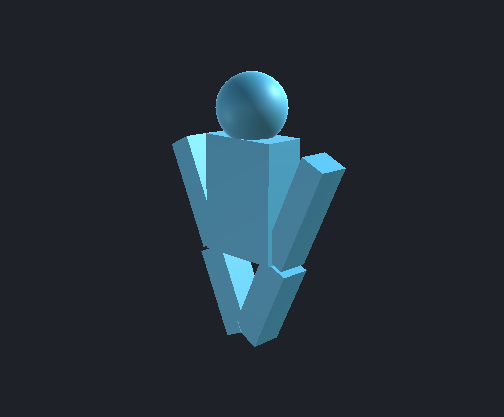
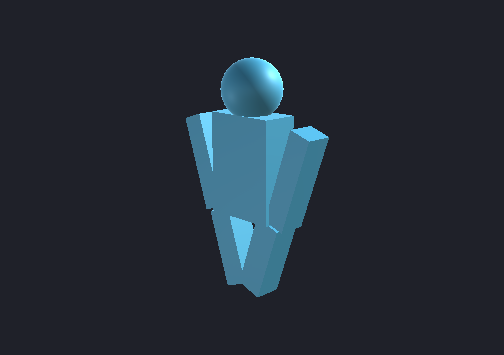
Fix FBX selection, preview framing and timeline mouse interactions

diff --git a/Assets/Editor/AnimationSegmentEditor/AnimationSegmentEditorWindow.cs b/Assets/Editor/AnimationSegmentEditor/AnimationSegmentEditorWindow.cs
@@ -18,6 +18,8 @@ public class AnimationSegmentEditorWindow : EditorWindow
     [SerializeField] private float playhead;
     [SerializeField] private bool exportSegments = true, exportCombined = true;
     private Vector2 trackScroll, cardsScroll;
+    [SerializeField] private Object sourceAsset;
+    [SerializeField] private AnimationClip[] sourceClips = new AnimationClip[0];
     private string search = "", status;
     private bool playing, scrubbing;
     private double lastUpdate;
@@ -84,6 +86,7 @@ public class AnimationSegmentEditorWindow : EditorWindow
     public void LoadClip(AnimationClip clip)
     {
         if (clip == null) return;
+        if (!sourceClips.Contains(clip)) { sourceAsset = clip; sourceClips = new[] { clip }; }
         var next = CreateInstance<AnimationEditSession>();
         try { next.Initialize(clip); }
         catch { Object.DestroyImmediate(next); throw; }
@@ -92,13 +95,37 @@ public class AnimationSegmentEditorWindow : EditorWindow
         selected = 0; playhead = 0; playing = false; trackScroll = Vector2.zero;
         var model = AssetDatabase.LoadAssetAtPath<GameObject>(AssetDatabase.GetAssetPath(clip));
         if (model != null) SetPreview(model);
+        else AutoLocatePreview();
         RebuildTracks(); Sample(); Repaint();
+    }
+    public void LoadSource(Object asset)
+    {
+        if (asset == null) return;
+        var clips = AnimationBatchScalerUtility.CollectClips(new[] { asset }).ToArray();
+        if (clips.Length == 0) { status = "资源中没有可编辑的动画。"; return; }
+        sourceAsset = asset; sourceClips = clips; LoadClip(clips[0]);
+    }
+    private void AutoLocatePreview()
+    {
+        if (session == null || session.source == null) return;
+        var model = AssetDatabase.LoadAssetAtPath<GameObject>(AssetDatabase.GetAssetPath(session.source));
+        if (model == null && Selection.activeGameObject != null) model = Selection.activeGameObject;
+        if (model == null)
+            foreach (var animator in Object.FindObjectsByType<Animator>(FindObjectsSortMode.None))
+                if (AnimationUtility.GetAnimationClips(animator.gameObject).Contains(session.source)) { model = animator.gameObject; break; }
+        if (model == null)
+            foreach (var animation in Object.FindObjectsByType<Animation>(FindObjectsSortMode.None))
+                if (AnimationUtility.GetAnimationClips(animation.gameObject).Contains(session.source)) { model = animation.gameObject; break; }
+        if (model != null) SetPreview(model);
+        else if (previewTarget != null) { Sample(); preview.Frame(); }
+        else status = "未找到对应模型。请选择场景模型后点击自动定位模型，或将模型 / Prefab 拖入右侧插槽。";
     }
     private void SetPreview(GameObject target)
     {
         previewTarget = target;
         if (preview == null) preview = new AnimationSegmentPreview();
-        preview.SetTarget(target); Sample();
+        preview.SetTarget(target); Sample(); preview.Frame();
+        if (target != null && !preview.HasRenderers) status = "模型没有可渲染的网格。若 FBX 仅包含骨骼动画，请在右侧指定带网格且骨架匹配的模型。";
     }
     private void RebuildTracks()
     {
@@ -143,6 +170,11 @@ public class AnimationSegmentEditorWindow : EditorWindow
                 EditorGUILayout.LabelField("动画预览", EditorStyles.boldLabel);
                 var target = (GameObject)EditorGUILayout.ObjectField(previewTarget, typeof(GameObject), true);
                 if (target != previewTarget) SetPreview(target);
+                using (new EditorGUILayout.HorizontalScope())
+                {
+                    if (GUILayout.Button("自动定位模型")) AutoLocatePreview();
+                    if (GUILayout.Button("模型居中 / F")) { Sample(); preview.Frame(); Repaint(); }
+                }
                 var rect = GUILayoutUtility.GetRect(100, 100, GUILayout.ExpandHeight(true), GUILayout.ExpandWidth(true));
                 if (preview != null) preview.Draw(rect);
                 using (new EditorGUILayout.HorizontalScope())
@@ -162,13 +194,19 @@ public class AnimationSegmentEditorWindow : EditorWindow
         using (new EditorGUILayout.HorizontalScope(EditorStyles.toolbar))
         {
             GUILayout.Label("ANIMATION CUT", EditorStyles.boldLabel, GUILayout.Width(125));
-            var source = (AnimationClip)EditorGUILayout.ObjectField(session.source, typeof(AnimationClip), false, GUILayout.MinWidth(150));
-            if (source != null && source != session.source) { try { LoadClip(source); } catch (Exception ex) { status = ex.Message; } }
+            var source = EditorGUILayout.ObjectField(sourceAsset != null ? sourceAsset : session.source, typeof(Object), false, GUILayout.MinWidth(150));
+            if (source != null && source != (sourceAsset != null ? sourceAsset : session.source))
+                try { LoadSource(source); } catch (Exception ex) { status = ex.Message; }
+            if (sourceClips.Length > 1)
+            {
+                int current = Array.IndexOf(sourceClips, session.source);
+                int next = EditorGUILayout.Popup(current, sourceClips.Select(c => c.name).ToArray(), GUILayout.Width(180));
+                if (next >= 0 && next != current) LoadClip(sourceClips[next]);
+            }
             GUILayout.Label(session.segments.Count + " 段   |   " + session.Duration.ToString("0.###") + " 秒", GUILayout.Width(170));
             if (GUILayout.Button("载入所选动画", EditorStyles.toolbarButton, GUILayout.Width(105)))
             {
-                var clips = AnimationBatchScalerUtility.CollectClips(Selection.objects);
-                if (clips.Count > 0) LoadClip(clips[0]); else status = "请先在 Project 中选择 AnimationClip 或 FBX。";
+                if (Selection.activeObject != null) LoadSource(Selection.activeObject); else status = "请先在 Project 中选择 AnimationClip 或 FBX。";
             }
         }
         using (new EditorGUILayout.HorizontalScope())
@@ -177,7 +215,7 @@ public class AnimationSegmentEditorWindow : EditorWindow
             if (saved != null && saved != session)
             {
                 if (!EditorUtility.IsPersistent(session)) Object.DestroyImmediate(session);
-                session = saved; selected = 0; playhead = 0; playing = false; RebuildTracks(); Sample();
+                session = saved; sourceAsset = saved.source; sourceClips = new AnimationClip[0]; selected = 0; playhead = 0; playing = false; AutoLocatePreview(); RebuildTracks(); Sample();
             }
             if (GUILayout.Button("保存编辑工程…", GUILayout.Width(120))) SaveSession();
             GUILayout.Label("源动画保持不变 · 切换源动画会新建编辑工程", EditorStyles.miniLabel);
@@ -248,7 +286,7 @@ public class AnimationSegmentEditorWindow : EditorWindow
         if (GUILayout.Button("恢复本段原始时长")) Edit("Reset segment duration", () => session.Resize(segment, segment.sourceEnd - segment.sourceStart));
         using (new EditorGUI.DisabledScope(session.segments.Count < 2))
             if (GUILayout.Button("移除此片段")) Edit("Remove segment", () => { session.segments.Remove(segment); selected = Mathf.Min(selected, session.segments.Count - 1); });
-        EditorGUILayout.HelpBox("C：点击时间线切割\nW：拖动片段，可移到空位或重排\nS：拖动片段右边缘调整时长\n滚轮：垂直滚动；Shift+滚轮：横向滚动\n空格：播放/暂停 · Ctrl/Cmd+Z：撤销\n空隙保持上一片段末帧，片段间直接切换。", MessageType.None);
+        EditorGUILayout.HelpBox("C：点击时间线切割\nW：拖动片段，可移到空位或重排\nS：拖动片段调整时长（左端固定）\n滚轮：垂直滚动；Shift+滚轮：横向滚动\n空格：播放/暂停 · Ctrl/Cmd+Z：撤销\n空隙保持上一片段末帧，片段间直接切换。", MessageType.None);
     }
     private void DrawExport()
     {
@@ -293,6 +331,7 @@ public class AnimationSegmentEditorWindow : EditorWindow
         if (e.keyCode == KeyCode.C) tool = EditTool.Cut;
         else if (e.keyCode == KeyCode.W) tool = EditTool.Move;
         else if (e.keyCode == KeyCode.S) tool = EditTool.Scale;
+        else if (e.keyCode == KeyCode.F) { Sample(); preview.Frame(); }
         else if (e.keyCode == KeyCode.Space) playing = !playing;
         else return;
         e.Use(); Repaint();
@@ -319,7 +358,8 @@ public class AnimationSegmentEditorWindow : EditorWindow
         var band = new Rect(rect.x + LabelWidth, rect.y + RulerHeight, rect.width - LabelWidth, BandHeight);
         var ruler = new Rect(rect.x + LabelWidth, rect.y, rect.width - LabelWidth, RulerHeight);
         var body = new Rect(rect.x + LabelWidth, band.yMax, rect.width - LabelWidth, rect.height - RulerHeight - BandHeight);
-        TimelineInput(rect, ruler, band, body);
+        // Native scrollbars must receive their own mouse events.
+        TimelineInput(rect, ruler, band, new Rect(body.x, body.y, Mathf.Max(0, body.width - 17), Mathf.Max(0, body.height - 17)));
         GUI.Label(new Rect(rect.x + 8, rect.y + 5, LabelWidth - 10, 22), "属性 / 关键帧", EditorStyles.boldLabel);
         GUI.Label(new Rect(rect.x + 8, band.y + 12, LabelWidth - 10, 22), "片段轨道", EditorStyles.miniLabel);
         GUI.BeginGroup(ruler);
@@ -406,9 +446,9 @@ public class AnimationSegmentEditorWindow : EditorWindow
         if (session.source == null) return;
         if (tool == EditTool.Cut) EditorGUIUtility.AddCursorRect(new Rect(ruler.x, ruler.y, ruler.width, all.height), MouseCursor.ArrowPlus);
         else EditorGUIUtility.AddCursorRect(band, tool == EditTool.Scale ? MouseCursor.ResizeHorizontal : MouseCursor.MoveArrow);
-        if (e.type == EventType.MouseDown && e.button == 0 && (ruler.Contains(e.mousePosition) || band.Contains(e.mousePosition) || body.Contains(e.mousePosition)))
+        if (e.type == EventType.MouseDown && GUIUtility.hotControl == 0 && e.button == 0 && (ruler.Contains(e.mousePosition) || band.Contains(e.mousePosition) || body.Contains(e.mousePosition)))
         {
-            GUIUtility.keyboardControl = 0; playing = false;
+            GUIUtility.keyboardControl = 0; playing = false; scrubbing = false; dragging = null;
             float time = TimeAt(all, e.mousePosition.x);
             if (tool == EditTool.Cut && !ruler.Contains(e.mousePosition)) Cut(time);
             else if (band.Contains(e.mousePosition))
@@ -417,8 +457,7 @@ public class AnimationSegmentEditorWindow : EditorWindow
                 if (segment != null)
                 {
                     selected = session.segments.IndexOf(segment);
-                    bool resizeHandle = Mathf.Abs(e.mousePosition.x - (all.x + LabelWidth + segment.End * pixelsPerSecond - trackScroll.x)) <= 12;
-                    if (tool == EditTool.Move || (tool == EditTool.Scale && resizeHandle))
+                    if (tool == EditTool.Move || tool == EditTool.Scale)
                     {
                         Undo.RegisterCompleteObjectUndo(session, tool == EditTool.Move ? "Move animation segment" : "Retime animation segment");
                         dragging = segment; dragMouseTime = time; dragStart = segment.start; dragDuration = segment.duration;
@@ -441,7 +480,7 @@ public class AnimationSegmentEditorWindow : EditorWindow
                 else session.Resize(dragging, dragDuration + delta);
                 selected = session.segments.IndexOf(dragging); EditorUtility.SetDirty(session); Sample(); e.Use(); Repaint();
             }
-            if (e.type == EventType.MouseUp) { dragging = null; GUIUtility.hotControl = 0; e.Use(); }
+            if (e.type == EventType.MouseUp) { dragging = null; scrubbing = false; GUIUtility.hotControl = 0; dragControl = 0; e.Use(); }
         }
         if (scrubbing && GUIUtility.hotControl == dragControl)
         {

diff --git a/Assets/Editor/Tests/AnimationSegmentEditorVisualTests.cs b/Assets/Editor/Tests/AnimationSegmentEditorVisualTests.cs
@@ -131,11 +131,35 @@ public static class AnimationSegmentEditorVisualTests
                 typeof(AnimationSegmentEditorWindow).GetMethod("Sample", Private).Invoke(window, null);
                 edit.Validate();
             }
+            if (ticks == 60)
+            {
+                var edit = Field<AnimationEditSession>("session");
+                var moved = edit.segments.Find(s => s.name.StartsWith("起步"));
+                Drag(5, 5.5f);
+                Check(Mathf.Abs(moved.duration - 3) < .04f, "Second S drag scales from segment body");
+                Check(GUIUtility.hotControl == 0, "Scale releases hot control");
+                typeof(AnimationSegmentEditorWindow).GetField("pixelsPerSecond", Private).SetValue(window, 300f);
+            }
+            if (ticks == 70)
+            {
+                var rect = Field<Rect>("timelineBounds");
+                var offset = Field<Vector2>("guiScreenOrigin") - window.position.position;
+                var start = new Vector2(rect.x + 230, rect.yMax - 8) + offset;
+                var end = start + new Vector2(110, 0);
+                float before = Field<float>("playhead");
+                Mouse(EventType.MouseDown, start); Mouse(EventType.MouseDrag, end, end - start); Mouse(EventType.MouseUp, end);
+                Check(Field<Vector2>("trackScroll").x > 0, "Horizontal scrollbar thumb drags");
+                Check(Mathf.Abs(Field<float>("playhead") - before) < .001f, "Scrollbar does not scrub playhead");
+                var preview = Field<AnimationSegmentPreview>("preview");
+                typeof(AnimationSegmentPreview).GetField("zoom", Private).SetValue(preview, 8f);
+                Key(KeyCode.F);
+                Check(Mathf.Abs((float)typeof(AnimationSegmentPreview).GetField("zoom", Private).GetValue(preview) - 1) < .001f, "F resets zoom to fit model");
+            }
             if (ticks == 85)
             {
                 Check(failure == null, failure);
                 Capture();
-                File.WriteAllText(Path.Combine(Reports, "segment-editor-ui.txt"), "PASS graphical editor layout, C mouse cuts, W mouse reorder, S mouse resize, preview sampling; Unity " + Application.unityVersion);
+                File.WriteAllText(Path.Combine(Reports, "segment-editor-ui.txt"), "PASS graphical editor layout, C mouse cuts, W mouse reorder, repeated S body resize, horizontal scrollbar drag without scrubbing, F framing, preview sampling; Unity " + Application.unityVersion);
                 Finish(0);
             }
         }

diff --git a/Assets/Editor/Tests/AnimationSegmentEditorTests.cs b/Assets/Editor/Tests/AnimationSegmentEditorTests.cs
@@ -164,6 +164,19 @@ public static class AnimationSegmentEditorTests
                 var importer = (ModelImporter)AssetImporter.GetAtPath(fbx);
                 importer.animationType = ModelImporterAnimationType.Generic; importer.importAnimation = true;
                 importer.preserveHierarchy = true; importer.SaveAndReimport();
+                var take = importer.defaultClipAnimations[0];
+                importer.clipAnimations = new[] {
+                    new ModelImporterClipAnimation { name = "First", takeName = take.takeName, firstFrame = take.firstFrame, lastFrame = (take.firstFrame + take.lastFrame) / 2 },
+                    new ModelImporterClipAnimation { name = "Second", takeName = take.takeName, firstFrame = (take.firstFrame + take.lastFrame) / 2, lastFrame = take.lastFrame } };
+                importer.SaveAndReimport();
+                var window = ScriptableObject.CreateInstance<AnimationSegmentEditorWindow>(); temporary.Add(window);
+                window.LoadSource(AssetDatabase.LoadAssetAtPath<GameObject>(fbx));
+                var flags = System.Reflection.BindingFlags.Instance | System.Reflection.BindingFlags.NonPublic;
+                var options = (AnimationClip[])typeof(AnimationSegmentEditorWindow).GetField("sourceClips", flags).GetValue(window);
+                Check(options.Length == 2, "FBX slot exposes both imported takes");
+                window.LoadClip(options[1]);
+                Check(((AnimationEditSession)typeof(AnimationSegmentEditorWindow).GetField("session", flags).GetValue(window)).source == options[1], "Can select second FBX clip");
+                Check(((AnimationSegmentPreview)typeof(AnimationSegmentEditorWindow).GetField("preview", flags).GetValue(window)).HasTarget, "Embedded clip automatically locates FBX model");
                 var clip = AssetDatabase.LoadAllAssetsAtPath(fbx).OfType<AnimationClip>().First(c => !c.name.Contains("__preview"));
                 var edit = NewSession(clip); temporary.Add(edit); edit.Split(edit.segments[0], edit.Snap(clip.length / 2));
                 var paths = AnimationSegmentExporter.Export(edit, Root + "/Output", true, true);

diff --git a/Assets/Editor/AnimationSegmentEditor/AnimationSegmentPreview.cs b/Assets/Editor/AnimationSegmentEditor/AnimationSegmentPreview.cs
@@ -14,6 +14,7 @@ public sealed class AnimationSegmentPreview : IDisposable
     private Vector2 orbit = new Vector2(135, 15);
     private float zoom = 1;
     public bool HasTarget { get { return instance != null; } }
+    public bool HasRenderers { get { return instance != null && instance.GetComponentsInChildren<Renderer>(true).Length > 0; } }
 
     public void SetTarget(GameObject target)
     {
@@ -33,6 +34,12 @@ public sealed class AnimationSegmentPreview : IDisposable
         instance.SetActive(true);
         container.SetActive(true);
         foreach (var animator in instance.GetComponentsInChildren<Animator>(true)) animator.cullingMode = AnimatorCullingMode.AlwaysAnimate;
+        Frame();
+    }
+
+    public void Frame()
+    {
+        if (instance == null) return;
         bounds = new Bounds(instance.transform.position, Vector3.one);
         var renderers = instance.GetComponentsInChildren<Renderer>(true);
         if (renderers.Length > 0)
@@ -64,7 +71,9 @@ public sealed class AnimationSegmentPreview : IDisposable
             preview.camera.clearFlags = CameraClearFlags.Color;
             preview.camera.backgroundColor = new Color(.12f, .13f, .16f);
             float radius = Mathf.Max(.1f, bounds.extents.magnitude);
-            float distance = radius * 4.8f * zoom;
+            float aspect = Mathf.Max(.1f, rect.width / rect.height);
+            float halfFov = Mathf.Atan(Mathf.Tan(15 * Mathf.Deg2Rad) * Mathf.Min(1, aspect));
+            float distance = radius / Mathf.Sin(halfFov) * 1.15f * zoom;
             var rotation = Quaternion.Euler(orbit.y, orbit.x, 0);
             preview.camera.transform.SetPositionAndRotation(bounds.center - rotation * Vector3.forward * distance, rotation);
             preview.camera.nearClipPlane = Mathf.Max(.001f, distance / 1000);

diff --git a/Documentation/TechnicalDesign.md b/Documentation/TechnicalDesign.md
@@ -72,7 +72,7 @@ r = duration / (sourceEnd - sourceStart)
 x = timelineOriginX + time * pixelsPerSecond - horizontalScroll
 ```
 
-C/W/S 在窗口 `KeyDown` 时切换工具；编辑文本或按住 Ctrl/Cmd/Alt 时不处理这些快捷键。C 点击裁切所在片段；W 拖动色块；S 仅在右端约 12 像素的命中范围内开始拖拽。时间尺或非切割模式的关键帧区域可拖动播放头。
+C/W/S 在窗口 `KeyDown` 时切换工具；编辑文本或按住 Ctrl/Cmd/Alt 时不处理这些快捷键。C 点击裁切所在片段；W 拖动色块；S 在整个片段色块内开始拖拽，固定左端调整时长，光标显示与命中区域一致。时间尺或非切割模式的关键帧区域可拖动播放头。
 
 拖拽使用 `GUIUtility.hotControl` 持有鼠标，起始时记录一次完整对象 Undo；后续鼠标移动基于起始位置/时长计算，避免累计误差。普通命名、数值编辑、切割和删除同样记录 Session 的 Undo 并标记 Dirty。
 
@@ -152,8 +152,8 @@ newEventTime = oldEventTime * r
 | 入口 | 覆盖范围 | 已记录结果 |
 | --- | --- | --- |
 | `AnimationBatchScalerTests.Run` | 原批量缩放、权重/设置/事件、GUID、Undo、目录、FBX | 8 场景 / 68 断言 |
-| `AnimationSegmentEditorTests.Run` | 切割边界、加权裁切、阶梯/短轨道/包裹、移动缩放、对象事件、合成、导出、Session、FBX、隔离预览及快捷键 | 9 场景 / 479 断言（启用图形设备） |
-| `AnimationSegmentEditorVisualTests.Run` | 普通编辑器中的真实窗口事件：C 鼠标切割、W 拖拽重排、S 右端缩放、模型渲染纹理 | PASS |
+| `AnimationSegmentEditorTests.Run` | 切割边界、加权裁切、阶梯/短轨道/包裹、移动缩放、对象事件、合成、导出、Session、FBX、隔离预览及快捷键 | 9 场景 / 482 断言（启用图形设备） |
+| `AnimationSegmentEditorVisualTests.Run` | 普通编辑器中的真实窗口事件：C 鼠标切割、W 拖拽重排、连续 S 色块缩放、横向滚动条拖动且播放头不变、F 居中、模型渲染纹理 | PASS |
 
 前两个入口用 `unity run` 运行，命令见 [README](../README.md#验证与限制)。无图形模式可用于纯数据回归，但会跳过分段窗口的图形快捷键断言，因此断言数量不同。
 
@@ -182,3 +182,12 @@ unity open . --editor-path $editorPath --args $editorArgs
 当前实现为单源、单轨道的分段时间编辑器。尚未实现多动画混剪、多轨重叠、过渡混合或完整逐关键帧数值编辑。改变 Session 数据结构时应考虑已有 `.asset` 的序列化兼容性；更改上述算法时，优先扩展现有边界、事件归属、源资产不变性和图形拖拽用例。
 
 当前测试没有宣称覆盖所有第三方 FBX、Humanoid 根运动、运行时状态机或约束系统。仅改变文档时，可检查链接与差异；改变数据、导出或交互逻辑时，应执行对应回归并更新报告。
+
+
+## 2026-10-28 交互修复
+
+- 源资源插槽使用 `UnityEngine.Object` 接收 FBX 主资源与 AnimationClip。`LoadSource` 复用 `CollectClips` 排除预览剪辑，缓存可选动画并以 Popup 切换；直接选中子剪辑时只载入该剪辑。源资源和候选列表属于序列化窗口状态，编辑工程结构保持不变。
+- 模型定位顺序：同文件模型、当前选择的 GameObject、场景中引用源剪辑的 Animator / Animation。找不到关联时保留已指定模型或提示指定；不凭名称猜测任意模型。加载模型后先采样再计算包围盒。`Frame` 重置镜头缩放并根据当前 Renderer 包围盒与视口宽高比取景，按钮及 F 可重复触发。无网格的动画 FBX 会明确提示使用带网格的模型。
+- 缩放起始点不再限制为右端 12 像素；每次拖拽记录新的鼠标时间及起始时长，MouseUp 清空 dragging、scrubbing 和 hotControl，下次可直接继续缩放。缩放仍受邻段边界限制。
+- 自定义时间线 MouseDown 只命中时间尺、片段轨道及扣除原生横纵滚动条后的关键帧可视区；已有 hotControl 时不抢占输入。滚动条保留给 `GUI.BeginScrollView`，不会开启播放头拖拽。
+- 回归使用合成 FBX 导入为 First / Second 两个动画并验证候选及第二剪辑选择、自动模型定位。图形测试在首次缩放后不切换工具，从色块中间再拖一次；放大时间轴后拖动横向滚动条，断言滚动位置改变、播放头不变，并验证 F 重置缩放和最终模型渲染。

diff --git a/README.md b/README.md
@@ -17,9 +17,9 @@
 
 入口：**Tools > 动画分段编辑器**，或 **Window > Animation > Animation Segment Editor**。
 
-1. 指定 AnimationClip，或在 Project 中选中 `.anim` / FBX 动画子资源，点击“载入所选动画”。
+1. 将 `.anim` 或 FBX 文件直接拖入左上角插槽；FBX 包含多个动画时，通过旁边的下拉框选择。也可在 Project 中选中资源后点击“载入所选动画”。
 2. 左侧查看关键帧、对象引用轨道和动画事件；点击或拖动时间尺可调整播放头。可搜索轨道、缩放和滚动时间线。
-3. 右侧指定匹配的模型 / Prefab 预览。FBX 动画会尝试自动使用同文件模型；独立 `.anim` 需要自行指定模型。
+3. 右侧指定匹配的模型 / Prefab 预览。FBX 动画会自动使用同文件模型；独立 `.anim` 会尝试使用当前选择的模型或场景中引用该动画的对象。可点击“自动定位模型”，使用“模型居中 / F”重新取景。仅含骨骼的 FBX 需要另行指定带网格的匹配模型。
 4. 使用下列工具编辑片段，上方卡片可填写各片段的 **Name**，并显示片段数量、片段时长和总时长。
 5. 保存“编辑工程”以便下次继续；选择 Assets 内的输出文件夹，一键导出动画。
 
@@ -27,7 +27,7 @@
 | --- | --- | --- |
 | C | 点击片段或关键帧区域 | 按最近帧切割 |
 | W | 拖动片段色块 | 移动到空位或重排 |
-| S | 拖动片段右边缘 | 固定左端，改变时长和播放速度 |
+| S | 拖动片段色块（可连续操作） | 固定左端，改变时长和播放速度 |
 | 空格 | 播放 / 暂停 | 预览当前时间线 |
 | Ctrl/Cmd+Z | 撤销 | 撤销片段编辑或导出 |
 
@@ -61,8 +61,8 @@
 | 检查 | 结果 | 报告 |
 | --- | --- | --- |
 | 原批量缩放器回归 | 8 个场景，68 项断言通过 | [regression.txt](TestReports/regression.txt) |
-| 分段编辑器回归 | 9 个场景，479 项断言通过 | [segment-editor.txt](TestReports/segment-editor.txt) |
-| 独立图形窗口验收 | C 鼠标切割、W 拖动重排、S 右边缘变速、预览渲染通过 | [segment-editor-ui.txt](TestReports/segment-editor-ui.txt) |
+| 分段编辑器回归 | 9 个场景，482 项断言通过 | [segment-editor.txt](TestReports/segment-editor.txt) |
+| 独立图形窗口验收 | C 鼠标切割、W 拖动重排、S 连续变速、横向滚动条拖动、F 居中与预览渲染通过 | [segment-editor-ui.txt](TestReports/segment-editor-ui.txt) |
 
 回归不依赖额外测试包。关闭本工程的 Unity 编辑器后，在工程根目录运行：
 
@@ -101,6 +101,8 @@ Save an `AnimationEditSession.asset` to retain the editable arrangement. Export 
 
 The batch scaler supports standalone `.anim` and embedded FBX clips. A duration ratio of `0.5` doubles playback speed; `2` halves it. Writable standalone clips can be updated in place while retaining GUIDs and references. Embedded/read-only clips export as new files.
 
-Verification: **8 batch-scaler cases / 68 assertions**, **9 segment-editor cases / 479 assertions**, and a graphical mouse-interaction/preview test passed. Synthetic FBX fixtures do not cover all DCC, Humanoid, root-motion or IK workflows. The segment editor visualizes keyframes but does not implement the full per-key editing interface of Unity's Animation window.
+Verification: **8 batch-scaler cases / 68 assertions**, **9 segment-editor cases / 482 assertions**, and a graphical mouse-interaction/preview test passed. Synthetic FBX fixtures do not cover all DCC, Humanoid, root-motion or IK workflows. The segment editor visualizes keyframes but does not implement the full per-key editing interface of Unity's Animation window.
 
 [User guide (Chinese)](Documentation/AnimationSegmentEditor.md) · [Technical design (Chinese)](Documentation/TechnicalDesign.md) · [License](LICENSE.txt)
+
+FBX files can be dropped directly into the source slot; use the dropdown for multiple takes. Preview supports automatic model lookup and F to frame. S retimes from anywhere on a segment, including repeated drags; dragging timeline scrollbars no longer changes the playhead.

diff --git a/Documentation/AnimationSegmentEditor.md b/Documentation/AnimationSegmentEditor.md
@@ -7,10 +7,10 @@
 
 ## 开始编辑
 
-1. 在窗口左上角指定 AnimationClip，或选中 Project 中的 .anim / FBX 后点击“载入所选动画”。FBX 有多个剪辑时，先展开并选中要编辑的动画子资源。
-2. 左侧显示属性轨道、所有浮点和对象引用关键帧，以及动画事件。菱形对应源动画关键点，位置随片段移动和时长变化同步更新。顶部时间尺以秒为单位，可缩放和横向滚动；轨道列表可搜索和纵向滚动。
-3. 右侧指定预览模型 / Prefab。FBX 动画会自动尝试使用同文件的模型。独立 .anim 无法推断适用模型，需要自行指定。模型层级和绑定路径应与动画相匹配；Humanoid 动画需要匹配的 Avatar。
-4. 点击或拖动时间尺、关键帧区域可拖动播放头；空格播放或暂停。预览区域拖拽旋转视角、滚轮缩放。预览只采样模型副本，不修改场景中的原对象；副本不运行自定义 MonoBehaviour。
+1. 在窗口左上角直接拖入 AnimationClip 或 FBX 文件，或选中 Project 中的 .anim / FBX 后点击“载入所选动画”。FBX 有多个剪辑时，在插槽旁的下拉框选择。切换剪辑会新建编辑工程，请先保存当前编辑。
+2. 左侧显示属性轨道、所有浮点和对象引用关键帧，以及动画事件。菱形对应源动画关键点，位置随片段移动和时长变化同步更新。顶部时间尺以秒为单位，可缩放和横向滚动；底部横向滚动条可直接拖动，且不会改变播放头；轨道列表可搜索和纵向滚动。
+3. 右侧指定预览模型 / Prefab。FBX 动画会自动尝试使用同文件的模型。独立 .anim 会尝试使用当前选择的模型或场景中引用该动画的 Animator / Animation 对象。点击“自动定位模型”可再次查找；未找到时会提示手动指定。仅含骨骼而没有网格的 FBX 需要指定另一个带网格的匹配模型。模型层级和绑定路径应与动画相匹配；Humanoid 动画需要匹配的 Avatar。
+4. 点击或拖动时间尺、关键帧区域可拖动播放头；空格播放或暂停。预览区域拖拽旋转视角、滚轮缩放。点击“模型居中 / F”或在非文本编辑状态按 F，重新按当前姿态计算包围盒并居中取景。预览只采样模型副本，不修改场景中的原对象；副本不运行自定义 MonoBehaviour。
 
 ## 三种工具
 
@@ -18,7 +18,7 @@
 | --- | --- | --- |
 | 切割 C | 点击片段或关键帧区域 | 按最近帧把所在片段分成两段 |
 | 移动 W | 拖动片段色块 | 移动至最近可用位置，可拖过相邻片段重排 |
-| 缩放 S | 拖动片段右边缘 | 左端固定，调整本段时长，源区间保持不变，实现变速 |
+| 缩放 S | 拖动片段色块任意位置（支持连续拖动） | 左端固定，调整本段时长，源区间保持不变，实现变速 |
 
 也可以点击“切播放头”在当前播放头处切割。快捷键在编辑文本时不会触发工具切换。
 
